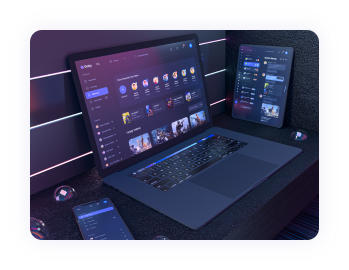
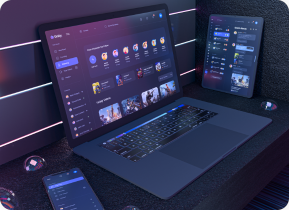
add middle section

diff --git a/index.html b/index.html
@@ -161,6 +161,143 @@
             </div>
             <hr class="solid">
         </div>
+
+        <div class="middle-section">
+            <div class="cat">
+                <ul>
+                    <li class="cat-name">
+                        <a href="#">All</a>
+                    </li>
+                    <li class="cat-name">
+                        <a href="#">Web design</a>
+                    </li>
+                    <li class="cat-name">
+                        <a href="#">3D</a>
+                    </li>
+                    <li class="cat-name">
+                        <a href="#">App design</a>
+                    </li>
+                    <li class="cat-name">
+                        <a href="#">Animation</a>
+                    </li>
+                    <li class="cat-name">
+                        <a href="#">Illustration</a>
+                    </li>
+                    <li class="cat-name">
+                        <a href="#">Typography</a>
+                    </li>
+                </ul>
+                <div class="cat-filters">
+                    <button type="submit">
+                        <img src="img/Group 18.svg" alt="Filters">
+                        <span>Filters</span>
+                    </button>
+                </div>
+            </div>
+            <div class="middle-section-cont">
+                <div class="middle-section-grid">
+                    <div class="middle-section-grid1 grid-relat">
+                        <div class="items">
+                            <a href="">
+                                <img src="img/Rectangle 45.png" alt="">
+                                <p>UI Components for Unity Gaming</p>
+                            </a>
+                        </div>
+                        <div class="save-action">
+                            <img src="img/Component 10 – 1.svg" alt="Save" />
+                            <img src="img/Component 6 – 2.svg" alt="Favorite" />
+                        </div>
+                    </div>
+                    <div class="middle-section-grid2 grid-relat">
+                        <div class="items">
+                            <a href="">
+                                <img src="img/Rectangle 46.png" alt="">
+                                <p>Analytics Mobile App – Blurr Series</p>
+                            </a>
+                        </div>
+                        <div class="save-action">
+                            <img src="img/Component 10 – 1.svg" alt="Save" />
+                            <img src="img/Component 6 – 2.svg" alt="Favorite" />
+                        </div>
+                    </div>
+                    <div class="middle-section-grid3 grid-relat">
+                        <div class="items">
+                            <a href="">
+                                <img src="img/Rectangle 47.png" alt="">
+                                <p>Estaro – Dark-mode – Task Management App</p>
+                            </a>
+                        </div>
+                        <div class="save-action">
+                            <img src="img/Component 10 – 1.svg" alt="Save" />
+                            <img src="img/Component 6 – 2.svg" alt="Favorite" />
+                        </div>
+                    </div>
+                    <div class="middle-section-grid4 grid-relat">
+                        <div class="items">
+                            <a href="">
+                                <img src="img/Rectangle 48.png" alt="">
+                                <p>Live streaming application for gamers.</p>
+                            </a>
+                        </div>
+                        <div class="save-action">
+                            <img src="img/Component 10 – 1.svg" alt="Save" />
+                            <img src="img/Component 6 – 2.svg" alt="Favorite" />
+                        </div>
+                    </div>
+                    <div class="middle-section-grid5 grid-relat">
+                        <div class="items">
+                            <a href="">
+                                <img src="img/Rectangle 45-1.png" alt="">
+                                <p>Dark Mockup for Unity Gaming</p>
+                            </a>
+                        </div>
+                        <div class="save-action">
+                            <img src="img/Component 10 – 1.svg" alt="Save" />
+                            <img src="img/Component 6 – 2.svg" alt="Favorite" />
+                        </div>
+                    </div>
+                    <div class="middle-section-grid6 grid-relat">
+                        <div class="items">
+                            <a href="">
+                                <img src="img/Rectangle 46-1.png" alt="">
+                                <p>SMM – Social Media Management – App UI</p>
+                            </a>
+                        </div>
+                        <div class="save-action">
+                            <img src="img/Component 10 – 1.svg" alt="Save" />
+                            <img src="img/Component 6 – 2.svg" alt="Favorite" />
+                        </div>
+                    </div>
+                    <div class="middle-section-grid7 grid-relat">
+                        <div class="items">
+                            <a href="">
+                                <img src="img/Rectangle 47-1.png" alt="">
+                                <p>Food App 2.0</p>
+                            </a>
+                        </div>
+                        <div class="save-action">
+                            <img src="img/Component 10 – 1.svg" alt="Save" />
+                            <img src="img/Component 6 – 2.svg" alt="Favorite" />
+                        </div>
+                    </div>
+                    <div class="middle-section-grid8 grid-relat">
+                        <div class="items">
+                            <a href="">
+                                <img src="img/Rectangle 48-1.png" alt="">
+                                <p>Live streaming application for gamers.</p>
+                            </a>
+                        </div>
+                        <div class="save-action">
+                            <img src="img/Component 10 – 1.svg" alt="Save" />
+                            <img src="img/Component 6 – 2.svg" alt="Favorite" />
+                        </div>
+                    </div>
+                </div>
+            </div>
+            <div class="middle-section-button">
+                <button>Load more</button>
+            </div>
+        </div>
     </section>
 
     <script src="scirpt.js"></script>

diff --git a/css/style.css b/css/style.css
@@ -115,12 +115,15 @@ img {
 
 .sidebar li a:hover {
     background-color: #FF2288;
+}
 
+.sidebar li a:focus {
+    background-color: #FF2288;
 }
 
 .sidebar li a .links_name {
     color: #fff;
-    font-size: 16px;
+    font-size: 1vw;
     transition: 0.4s;
     margin-left: 15px;
 }
@@ -170,7 +173,7 @@ img {
     box-shadow: 0 5px 10px rgba(0, 0, 0, 0.3);
     padding: 6px 12px;
     border-radius: 4px;
-    font-size: 16px;
+    font-size: 1vw;
     white-space: nowrap;
     pointer-events: none;
     transition: 0s;
@@ -222,18 +225,18 @@ section {
 }
 
 
-/* top Section */
+/* Top Section */
 .top-section {
     width: 100%;
     height: auto;
     padding: 30px 0 30px 30px;
-    font-size: 16px;
 }
 
 .top-section-container {
     display: flex;
     justify-content: space-between;
     align-items: center;
+    flex-wrap: wrap;
 }
 
 .top-section .search input {
@@ -348,4 +351,141 @@ hr.solid {
     opacity: 5%;
     margin-top: 30px;
     width: 98.30%;
+}
+
+/* Middle Section */
+.middle-section {
+    width: 80%;
+    height: auto;
+    padding: 15px 30px 30px 15px;
+    margin: 0 auto;
+}
+
+.middle-section .cat {
+    display: flex;
+    justify-content: space-between;
+    align-items: center;
+}
+
+.middle-section .cat ul {
+    display: flex;
+    justify-content: center;
+    align-items: center;
+}
+
+.middle-section .cat li a {
+    font-family: "Avenir-Book";
+    margin-right: 10px;
+    padding: 15px;
+    font-size: 1vw;
+    white-space: nowrap;
+}
+
+.middle-section .cat li a:hover {
+    background-color: #F2F2F2;
+    border-radius: 12px;
+}
+
+.middle-section .cat li a:focus {
+    background-color: #F2F2F2;
+    border-radius: 12px;
+}
+
+.middle-section .cat .cat-filters button {
+    font-family: "Avenir-Book";
+    font-size: 1vw;
+    display: flex;
+    justify-content: center;
+    align-items: center;
+    background-color: #fff;
+    color: #222;
+    height: 50px;
+    width: 120px;
+    border-radius: 12px;
+    border: 1px solid #D8D8D8;
+    cursor: pointer;
+}
+
+.middle-section .cat .cat-filters button:hover {
+    background-color: #F2F2F2;
+}
+
+.middle-section .cat .cat-filters button:focus {
+    background-color: #F2F2F2;
+}
+
+.middle-section .cat .cat-filters button img {
+    margin-right: 15px;
+}
+
+.middle-section-grid {
+    display: grid;
+    grid-template-columns: repeat(4, 1fr);
+    grid-template-rows: repeat(2, 1fr);
+    grid-column-gap: 25px;
+    grid-row-gap: 40px;
+    margin-top: 40px;
+}
+
+.grid-relat {
+    position: relative;
+}
+
+.save-action {
+    position: absolute;
+    left: 5%;
+    top: 5%;
+    display: grid;
+    grid-row-gap: 5px;
+    visibility: hidden;
+    cursor: pointer;
+}
+
+.grid-relat:hover .save-action {
+    visibility: visible;
+}
+
+.save-action img {
+    height: 30px;
+    width: 30px;
+    background-color: #fff;
+    border-radius: 10px;
+    padding: 5px;
+}
+
+.save-action img:hover {
+    background-color: #FF2288;
+}
+
+.middle-section-grid .items img {
+    height: 190px;
+    width: 280px;
+    object-fit: cover;
+    border-radius: 12px;
+    box-shadow: 0px 0px 20px #5B5EBA1F;
+}
+
+.middle-section-grid a:hover {
+    opacity: 90%;
+}
+
+.middle-section-button {
+    display: flex;
+    justify-content: center;
+    align-items: center;
+}
+
+.middle-section-button button {
+    background-color: #F2F2F2;
+    color: #222;
+    height: 50px;
+    width: 280px;
+    border-radius: 12px;
+    border: none;
+    cursor: pointer;
+    margin-top: 40px;
+}
+
+.middle-section-button button:hover {
+    background-color: #e7e3e3;
 }

diff --git a/css/media.css b/css/media.css
@@ -1,9 +1,31 @@
-@media all and (max-width: 1280px) {}
+@media all and (max-width: 1280px) {
+    .sidebar {
+        width: 280px;
+        padding: 10px 15px;
+    }
+
+    .middle-section .cat .cat-filters button {
+        width: 60px;
+    }
+
+    .middle-section .cat .cat-filters button span {
+        display: none;
+    }
+
+    .middle-section .cat .cat-filters button img {
+        margin-right: 0;
+    }
+
+    .middle-section-grid {
+        grid-template-columns: repeat(3, 1fr);
+        grid-template-rows: repeat(3, 1fr);
+    }
+}
 
 @media all and (max-width: 1024px) {
     .sidebar {
-        width: 100px;
-        padding: 20px;
+        width: 77px;
+        padding: 10px;
     }
 
     .sidebar .logo-cont .nav-menu {
@@ -74,10 +96,19 @@
         background: #fff;
         min-height: 200vh;
         top: 0;
-        left: 100px;
-        width: calc(100% - 100px);
+        left: 77px;
+        width: calc(100% - 77px);
         transition: all 0.4s;
         z-index: 2;
+    }
+
+    .top-section {
+        padding: 10px 0 10px 10px;
+    }
+
+    .middle-section-grid {
+        grid-template-columns: repeat(2, 1fr);
+        grid-template-rows: repeat(2, 1fr);
     }
 }
 
